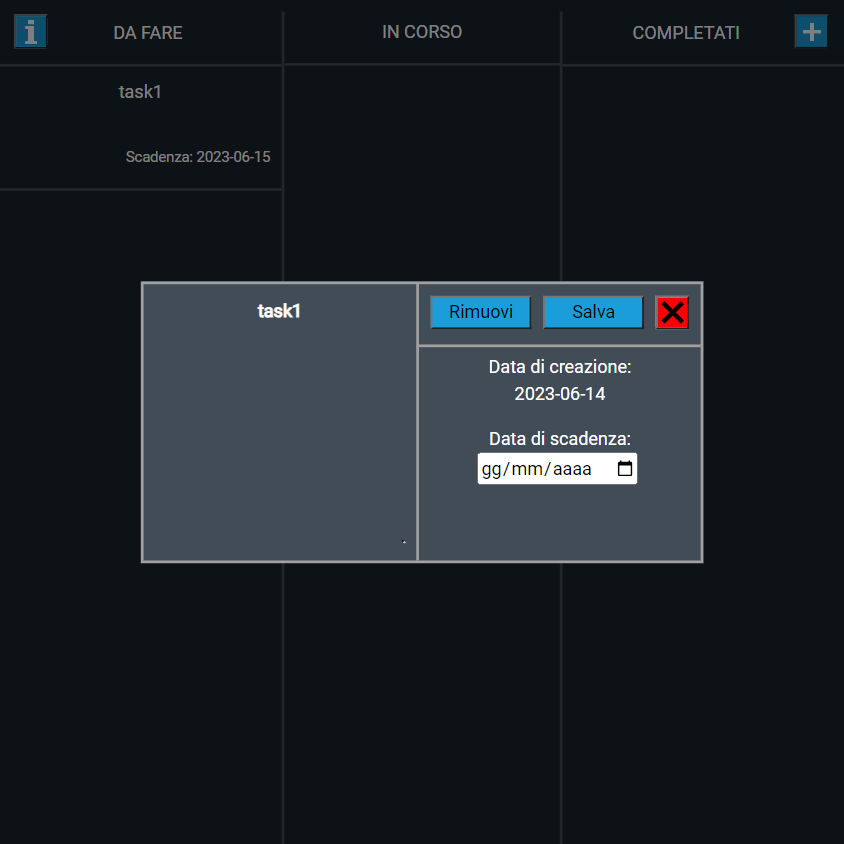
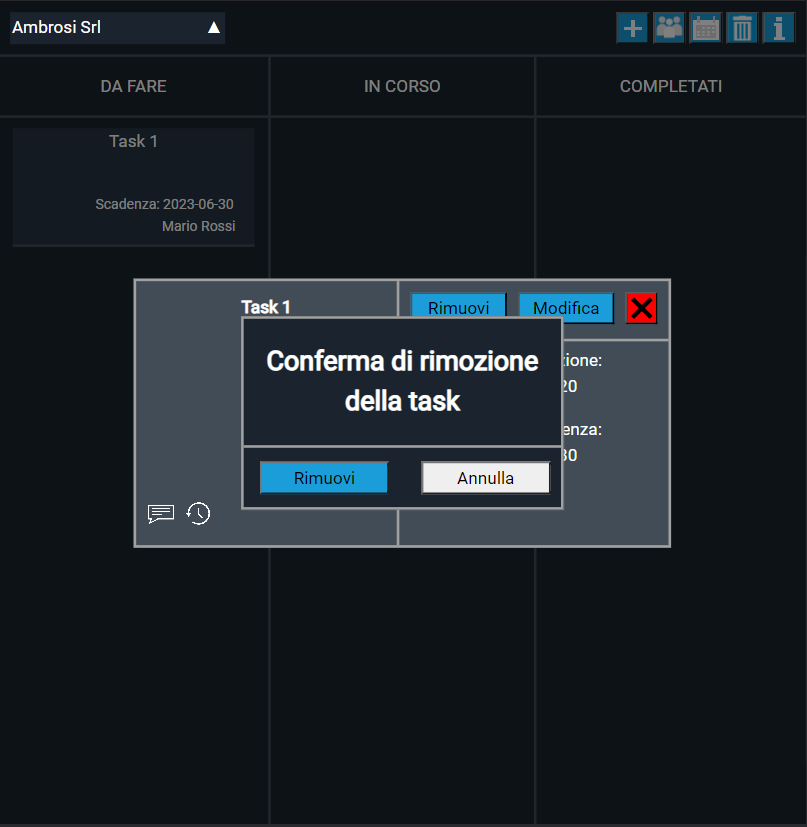
Contenuti info

diff --git a/src/App.vue b/src/App.vue
@@ -158,6 +158,9 @@
           </div>
       </div>
       <div style="color:white; padding: 10px;text-align: justify;overflow-y: auto; margin-bottom: 20px;">
+
+
+
         <ol>
           <li>
             <b>Aggiungere una task</b> <br>
@@ -165,10 +168,8 @@
             <br><img style="width: 100%;max-width: 435px;" src="src\assets\img1.PNG"><br><br>
             Nel riquadro sinistro andrà inserita la nostra task e nel riquadro destro la data di scadenza. Sono entrambi dei campi obbligatori
             <br><img style="width: 100%;max-width: 435px;" src="src\assets\img2.PNG"><br><br>
-            In questo caso, come task è stata inserita "task1" e come data di scadenza il 15/06/2023. Premere il pulsante aggiungi per aggiungere la task.            
+            In questo caso, come task è stata inserita "Task1" e come data di scadenza il 20/06/2023. Premere il pulsante aggiungi per aggiungere la task.            
             <br><img style="width: 100%;max-width: 435px;" src="src\assets\img3.PNG"><br><br>
-            Dopo aver premuto il pulsante aggiungi la lista sarà così:
-            <br><img style="width: 100%;max-width: 435px;" src="src\assets\img4.PNG"><br><br>
           </li>
           <li>
             <b>Visualizzare le informazioni di una task</b> <br>
@@ -178,12 +179,62 @@
           <li>
             <b>Modificare una task</b> <br>
             Per modificare le informazioni di una task premere sul tasto modifica. E' possibile modificare il testo della task e la data di scadenza.
-            <br><img style="width: 100%;max-width: 435px;" src="src\assets\img6.PNG"><br><br>
-            In questo caso è stato aggiunto il testo "modificata" a "task1" e modificata la data inserendo 16/062023. Successivamente è stato premuto il pulsante Salva. 
             <br><img style="width: 100%;max-width: 435px;" src="src\assets\img7.PNG"><br><br>
+            In questo caso è stato aggiunto il testo "modificata" a "task1" e modificata la data. Successivamente è stato premuto il pulsante Salva. 
+            <br><img style="width: 100%;max-width: 435px;" src="src\assets\img21.PNG"><br><br>
             Dopo che è stato premuto Salva, le informazioni saranno cambiate.
-            <br><img style="width: 100%;max-width: 435px;" src="src\assets\img8.PNG"><br><br>
           </li>
+          <br>
+          <li>
+            <b>Rimuovere una task</b><br>
+            Per rimuovere una task creata, premere sul tasto rimuovi. Spunterà sullo schermo un bottone per confermermare l'eliminazione della task. 
+            <br><img style="width: 100%;max-width: 435px;" src="src\assets\img6.PNG"><br>
+            <b>Eliminazione multipla</b><br>
+            Per rimuovere più task contemporaneamente cliccare sul bottone col cestino in alto a destra.
+            <br><img style="width: 100%;max-width: 435px;" src="src\assets\img22.PNG">
+            Così facendo si potranno eliminare tutte le task che si vorranno soltanto cliccando la checkbox che sarà spuntata di fianco ad ogni Task <br>
+            <img style="width: 100%;max-width: 435px;" src="src\assets\img9.PNG">
+          </li>
+          <li>
+            <b>Stati delle task</b><br>
+            Le task possono avere stati diversi a seconda della scadenza. Tutti gli stati sono identificati dai dei colori. <br><br>
+            <i>Bianco</i> se la scadenza è a più di un giorno di distanza dal giorno stesso. <br>
+            <i style="color: yellow;">Giallo</i> se la scadenza avverrà oggi. <br>
+            <i style="color: red;">Rosso</i> se la task è scaduta <br>
+            <i style="color: #32CD32;">Verde</i> se la task è stata spostata nella sezione completati in tempo <br><br>
+          </li>
+          <li>
+            <b>Storico delle task create</b><br>
+            Lo storico delle task quindi da chi sono state modificate, può essere visto cliccando il bottone in basso a sinistra della task con il simbolo della freccia curva.
+            <br><img style="width: 100%;max-width: 435px;" src="src\assets\img18.PNG">
+          </li>
+          <li>
+            <b>Commenti delle task</b><br>
+            Un'ulteriore funzionalità sono i commenti alle task. Per accedervici basta cliccare il bottone con il simbolo del commento in basso a sinistra della task
+            <br><img style="width: 100%;max-width: 435px;" src="src\assets\img19.PNG">
+            <br>appena cliccato il bottone aggiungi comparirà il commento sulla sinistra con in basso il nome di chi l'ha creato.
+            Per eliminare il commento basta cliccare la x rossa di fianco.
+            <br><img style="width: 100%;max-width: 435px;" src="src\assets\img23.PNG">
+          </li>
+          <li>
+            <b>Modalità privata e pubblica</b><br>
+            Cliccando il bottone in alto a destra mostrato in figura si può accedere alla modalità privata, quindi uno spazio privato per l'utente per mettersi task singole che nessuno può vedere.<br>
+            <br>Nella modalità privata saranno comunque visibili le task personali inserite in modalità pubblica. <br>
+            <img style="width: 100%;max-width: 435px;" src="src\assets\img17.PNG"><br>
+            per tornare alla modalità pubblica basterà cliccare un'altra volta il bottone. L'immagine farà vedere più persone<br>
+            <img style="width: 100%;max-width: 435px;" src="src\assets\img24.PNG">
+          </li>
+          <li>
+            <b>Calendario</b><br>
+            Il bottone in alto a destra con l'immagine del calendario mostrerà un calendario dove si possono vedere tutte le task e cliccandoci sopra visualizzarle completamente come dal menù principale. <br>
+            <img style="width: 100%;max-width: 435px;" src="src\assets\img16.PNG"><br>
+            Con le freccie in alto a sinistra si potrà andare avanti di mese in mese. Per tornare al menù principale basta cliccare la x in alto a destra. <br>
+            <img style="width: 100%;max-width: 435px;" src="src\assets\img15.PNG">
+          </li>
+
+        
+        
+        
         </ol>
       </div>
     </div>
@@ -421,8 +472,8 @@ export default {
   },
   mounted(){
     sessionStorage.setItem("operatorID", 104);
-    sessionStorage.setItem("operatorName", "Silvio");
-    sessionStorage.setItem("operatorSurname", "Berlusconi");
+    sessionStorage.setItem("operatorName", "Mario");
+    sessionStorage.setItem("operatorSurname", "Rossi");
     // setTimeout(() => {
     //   let maxGroup = 1;
     //   console.log(maxGroup);
